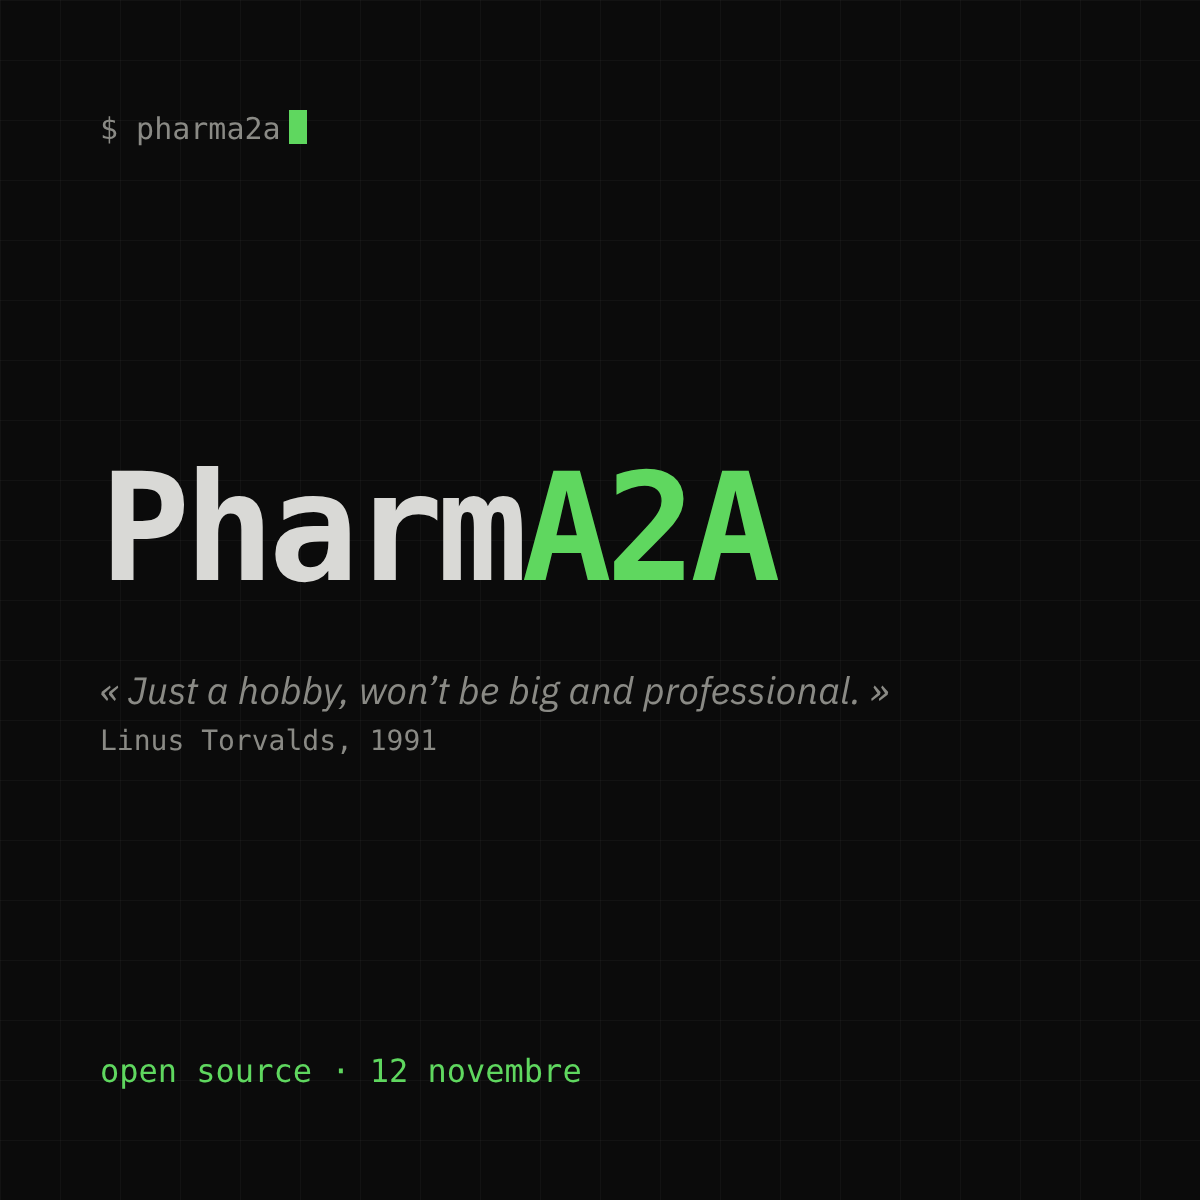
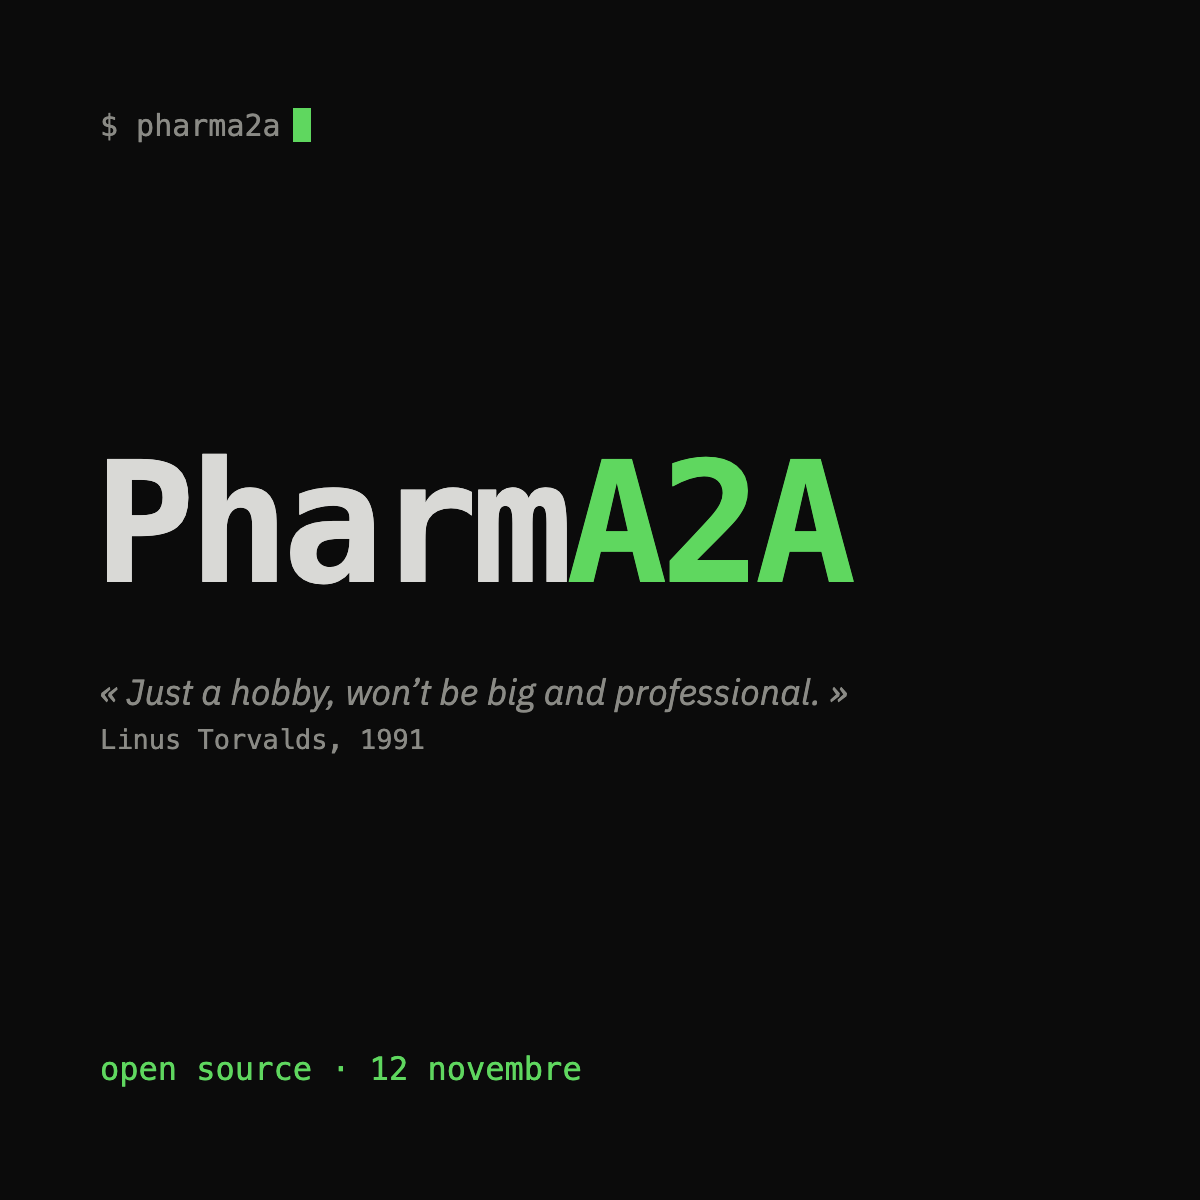
Image d'aperçu sobre, sans quadrillage

diff --git a/index.html b/index.html
@@ -7,7 +7,7 @@
 <meta name="description" content="Un protocole ouvert entre l'agent d'une pharmacie et l'agent de ses fournisseurs. Open source, le 12 novembre 2026.">
 <meta property="og:title" content="PharmA2A">
 <meta property="og:description" content="Un protocole ouvert entre l'agent d'une pharmacie et l'agent de ses fournisseurs. Open source, le 12 novembre 2026.">
-<meta property="og:image" content="https://pharma2a.org/og.png">
+<meta property="og:image" content="https://pharma2a.org/og.png?v=2">
 <meta property="og:url" content="https://pharma2a.org/">
 <meta property="og:type" content="website">
 <meta name="twitter:card" content="summary_large_image">
